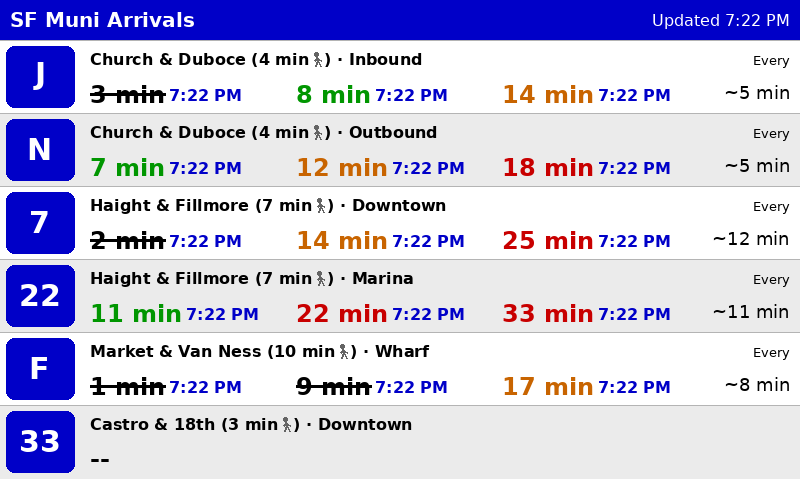
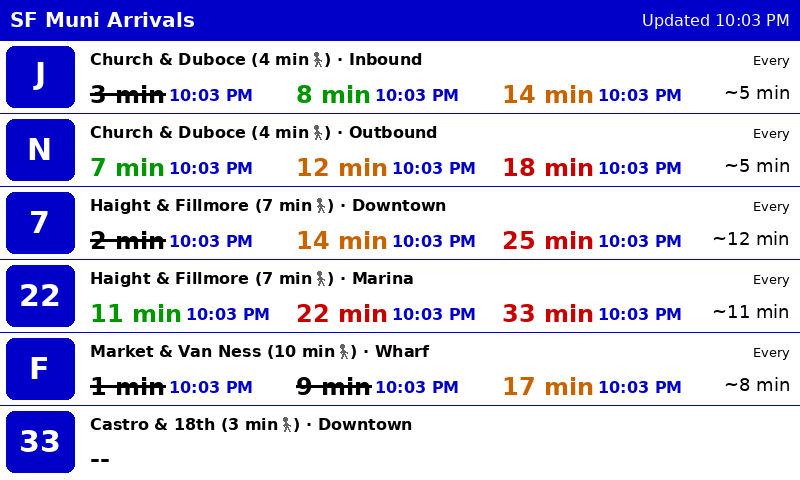
Update color handling in renderer and colors module, replacing row background colors with a row separator color for improved visual clarity.

diff --git a/src/renderer.py b/src/renderer.py
@@ -4,7 +4,7 @@ from zoneinfo import ZoneInfo
 from PIL import Image, ImageDraw, ImageFont
 
 from src.colors import (
-    BLACK, WHITE, RED, BLUE, UNREACHABLE, ROW_BG_DARK, ROW_BG_LIGHT, urgency_color,
+    BLACK, WHITE, RED, BLUE, UNREACHABLE, ROW_SEPARATOR, urgency_color,
 )
 from src.config import ThresholdConfig
 from src.models import DisplayData, RouteArrivals
@@ -77,11 +77,10 @@ def render(data: DisplayData, thresholds: ThresholdConfig) -> Image.Image:
 
     for i, route in enumerate(data.routes[:MAX_ROWS]):
         y = banner_y + i * row_height
-        bg = ROW_BG_LIGHT if i % 2 == 0 else ROW_BG_DARK
-        draw.rectangle([(0, y), (WIDTH, y + row_height)], fill=bg)
 
-        # Separator line
-        draw.line([(0, y), (WIDTH, y)], fill=(180, 180, 180), width=1)
+        # Separator line between rows
+        if i > 0:
+            draw.line([(0, y), (WIDTH, y)], fill=ROW_SEPARATOR, width=1)
 
         _draw_route_row(draw, fonts, route, thresholds, y, row_height)
 

diff --git a/src/colors.py b/src/colors.py
@@ -12,9 +12,8 @@ ORANGE = (200, 100, 0)
 # Sentinel for unreachable arrivals (drawn as black with strikethrough)
 UNREACHABLE = None
 
-# Background colors for row striping
-ROW_BG_LIGHT = WHITE
-ROW_BG_DARK = (235, 235, 235)
+# Row separator color
+ROW_SEPARATOR = BLUE
 
 
 def urgency_color(minutes_away: int, walk_minutes: int, thresholds: ThresholdConfig):
